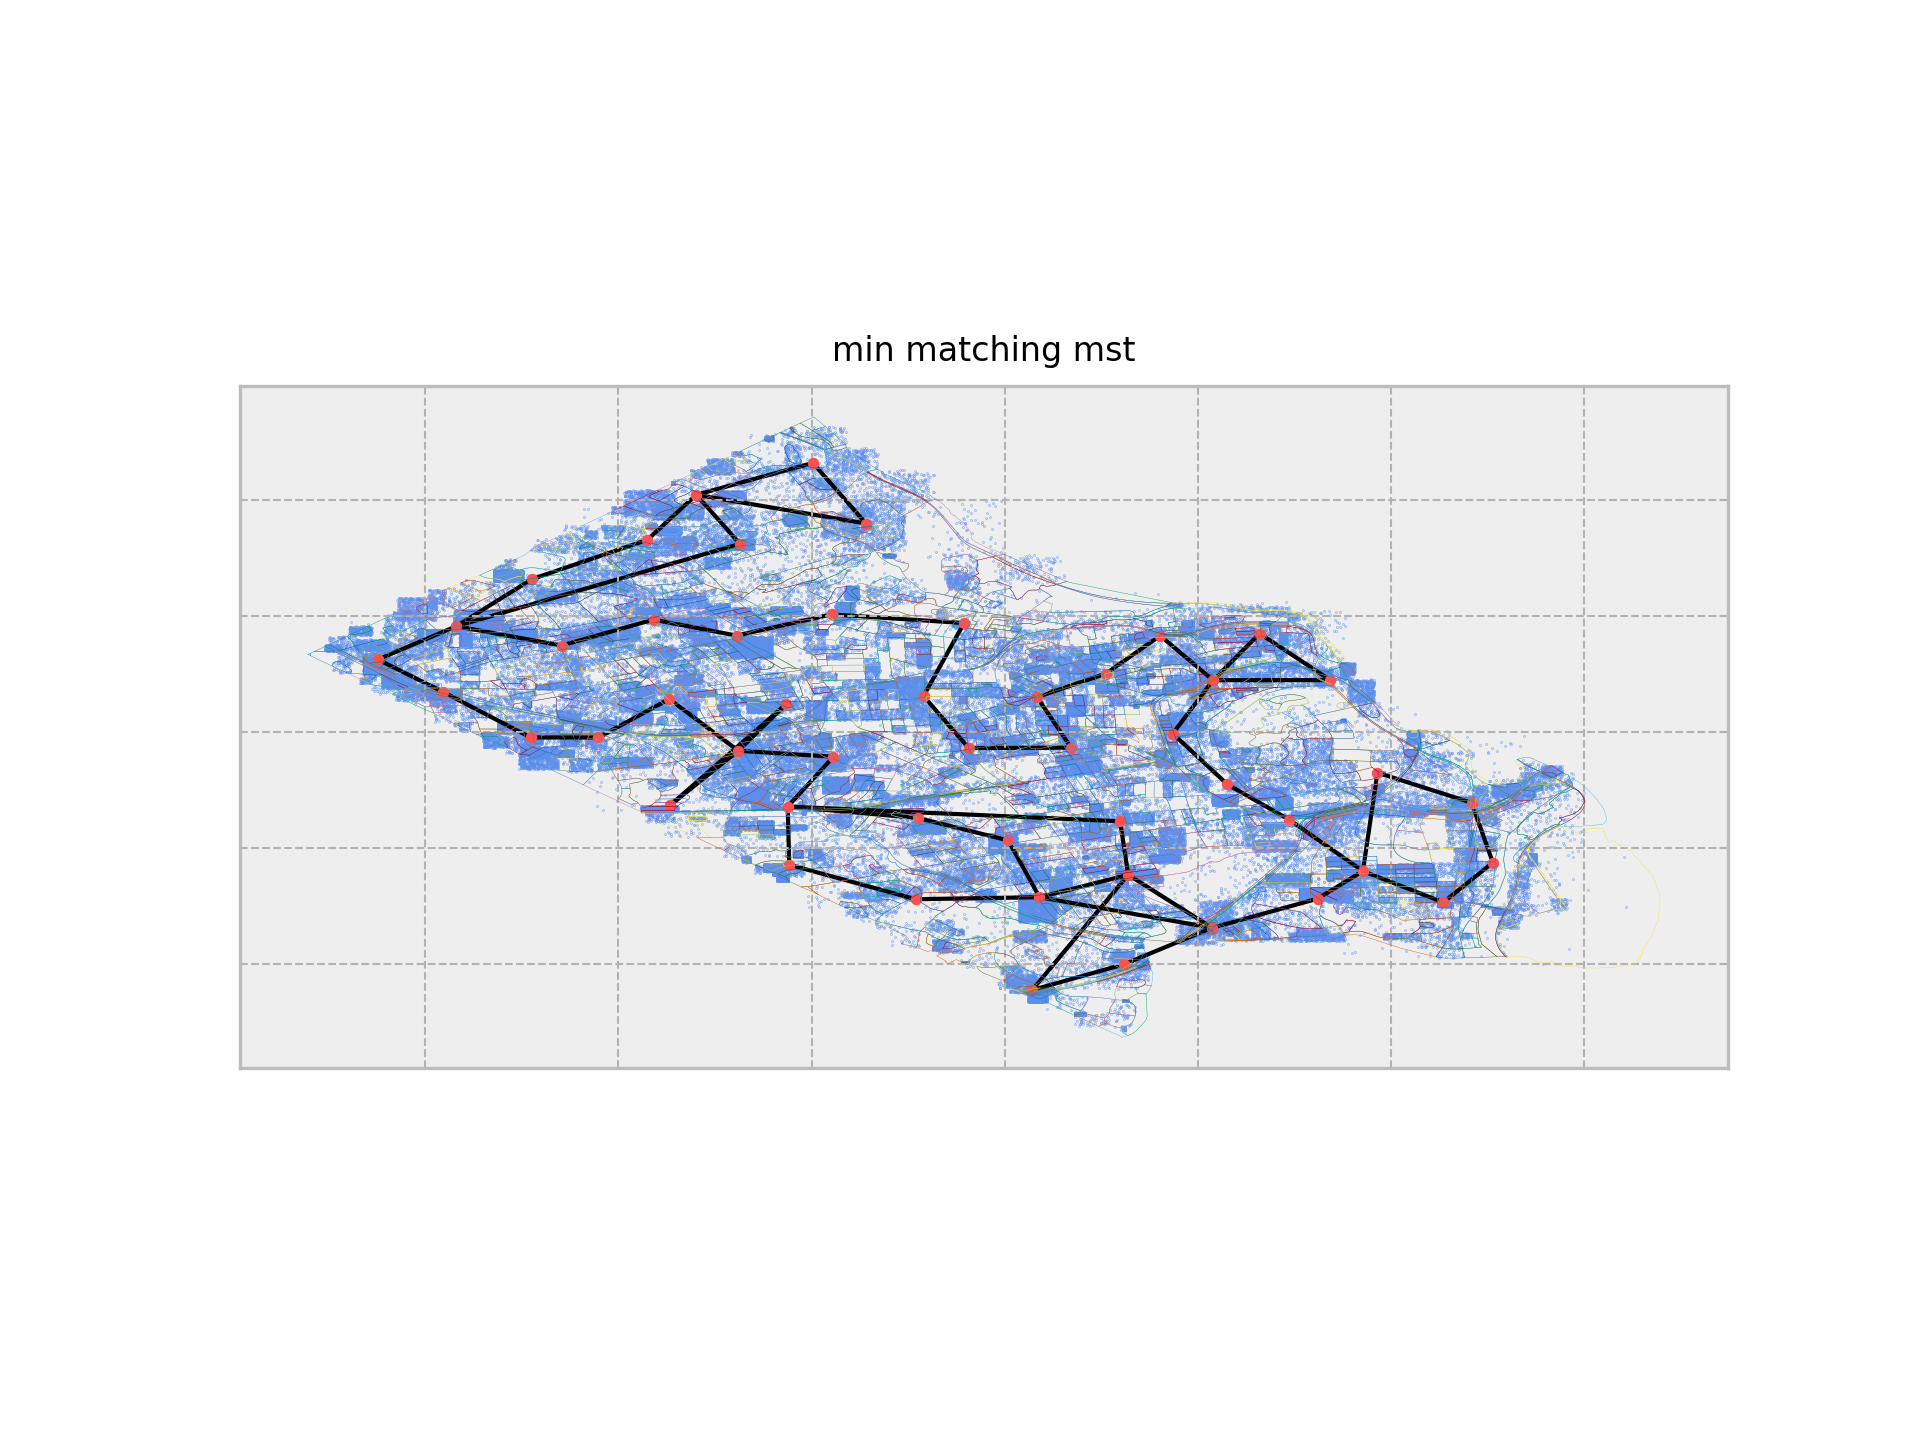
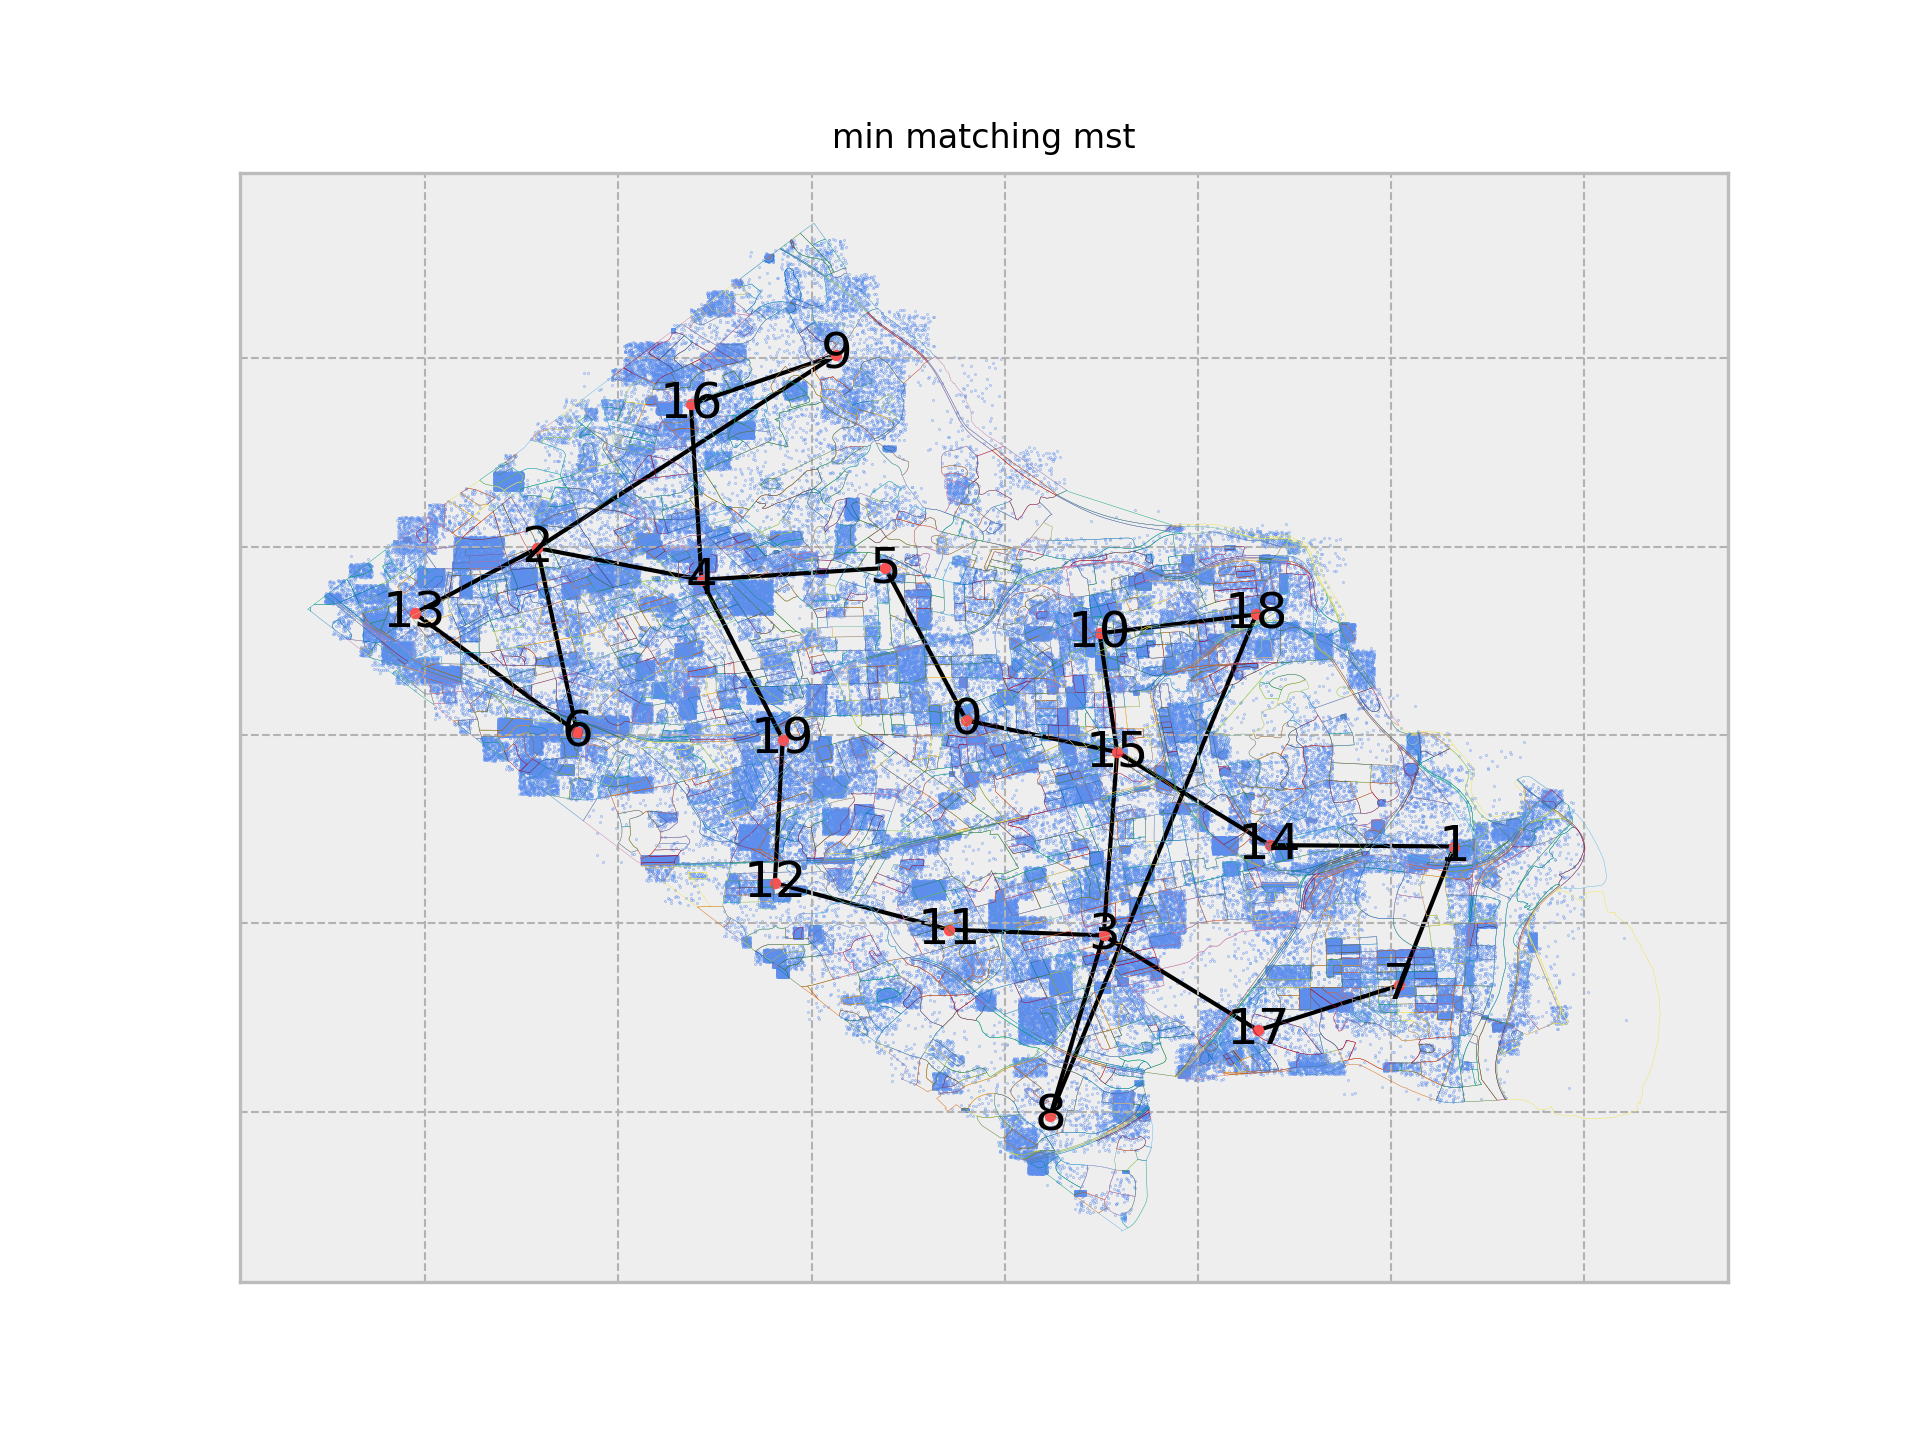
Fix step 5).

diff --git a/betterbus.py b/betterbus.py
@@ -214,24 +214,23 @@ class BetterBus:
         mm_mst.add_weighted_edges_from(new_edges)
 
         # Step 5)
-        node = 0
-        nodelist = []
-        stack = [node]
+        p_node = 0
+        n_node = 0
+        nodelist = [n_node]
+        edgelist = []
+        edgestack = []
         while len(nodelist) < len(mm_mst.nodes()):
-            node = stack.pop(0)
-            if node not in nodelist:
-                nodelist.append(node)
-            for edge in mm_mst.edges(node):
-                if edge[1] not in stack and edge[1] not in nodelist:
-                    stack.insert(0, edge[1])
-        tsp_edges = [(nodelist[i], nodelist[i + 1],
-                      self.get_dist(pos[nodelist[i]], pos[nodelist[i + 1]]))
-                     for i in range(len(nodelist[:-2]))]
-
+            for edge in mm_mst.edges(n_node):
+                edgestack.insert(0, edge)
+            while n_node in nodelist:
+                n_node = edgestack.pop(0)[1]
+            nodelist.append(n_node)
+            edgelist.append((p_node, n_node))
+            p_node = n_node
         # Connect first and last nodes -> Is this correct?
-        tsp_edges.append((tsp_edges[-1][1], tsp_edges[0][0],
-                          self.get_dist(pos[tsp_edges[-1][1]],
-                                        pos[tsp_edges[0][0]])))
+        edgelist.append((nodelist[-1], nodelist[0]))
+        tsp_edges = [(e[0], e[1], self.get_dist(pos[e[0]], pos[e[1]]))
+                     for e in edgelist]
 
         tsp = nx.Graph()
         tsp.add_weighted_edges_from(tsp_edges)
@@ -262,7 +261,7 @@ class BetterBus:
         return None
 
     # TODO: Modify to allow list of graphs (draw as subplots)
-    def draw(self, G, p, title):
+    def draw(self, graph, pos, title):
         """
         Takes a NetworkX Graph object, a dictionary of node positions,
         and a title.
@@ -283,10 +282,10 @@ class BetterBus:
         # Draw population dots
         ax.scatter(self.arr[:, 1], self.arr[:, 0], s=0.01, c='#5d8eec')
         # Draw input route
-        nx.draw_networkx(G, p, node_color='#F95151', node_size=5,
-                         with_labels=False)
+        nx.draw_networkx(graph, pos, node_color='#F95151', node_size=5,
+                         with_labels=True)
         plt.savefig(title, dpi=300)
-        plt.show(block=False)
+        # plt.show(block=False)
         te = time.time()
         print('draw() complete in {0} sec'.format(te - ts))
 
@@ -317,7 +316,7 @@ if __name__ == '__main__':
     Tie each route back to its depot and add routes between depots.
     Add more depots.
     """
-    n = 50
+    n = 25
     BB = BetterBus(n)
     stops = sk_cl.KMeans(n_clusters=BB.n).fit(BB.arr).cluster_centers_
     tsp, pos = BB.christofides(stops, show_steps=True)
